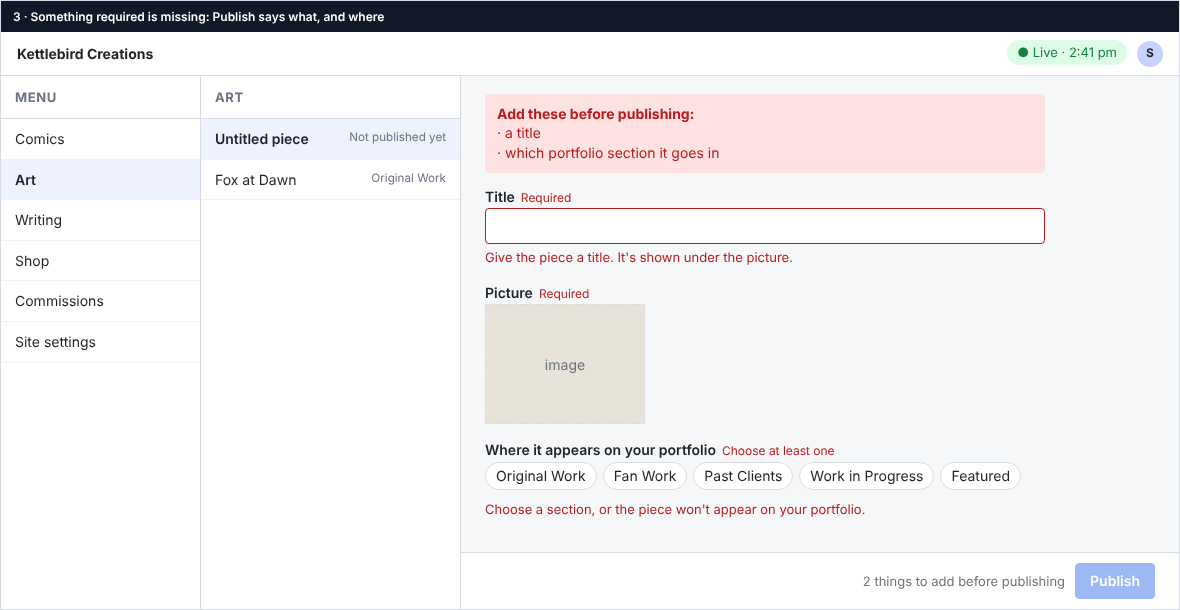
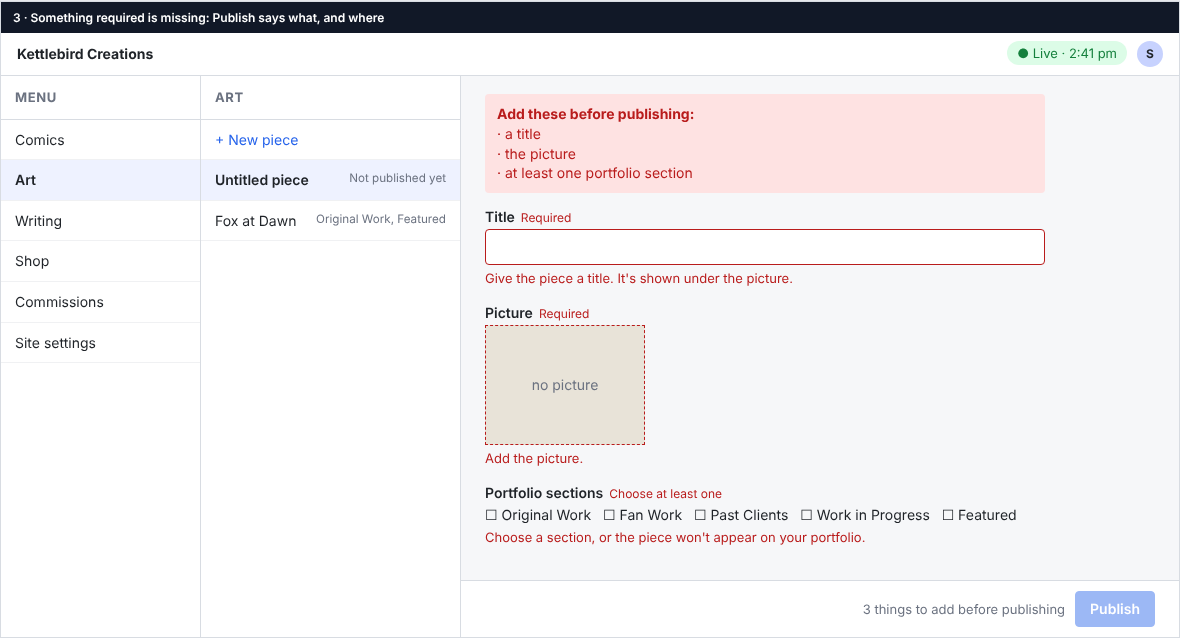
Revise the organised-editor design after its persona walkthrough
Full form mock-ups for every section (eight in all); hides fields the
site doesn't use yet instead of describing them; one meaning for
Featured; Shop section required; prices written with their currency;
'series' as in the approved designs.

Claude-Session: https://claude.ai/code/session_01HWRLNSVAoX5Ni8d8XcwJh1

diff --git a/docs/design/mockups/organised-editor/mockups.html b/docs/design/mockups/organised-editor/mockups.html
@@ -44,98 +44,51 @@
 <body>
 
 <div class="frame" id="m1">
-  <h6>1 · The menu, and Comics open: a series and its chapters in number order</h6>
+  <h6>1 · The menu, and Comics: a series, its details and its chapters in number order</h6>
   <div class="top"><strong>Kettlebird Creations</strong><span><span class="status">● Live · 2:41 pm</span><span class="avatar">S</span></span></div>
-  <div class="cols">
-    <div class="col"><h3>Menu</h3>
-      <div class="item sel">Comics</div><div class="item">Art</div><div class="item">Writing</div><div class="item">Shop</div><div class="item">Commissions</div><div class="item">Site settings</div>
-    </div>
-    <div class="col"><h3>Comics</h3>
-      <div class="item sel">Kettle Tales <small>Ongoing</small></div><div class="item">Moonlit Errands <small>Complete</small></div>
-      <div class="item" style="color:var(--accent)">+ New comic</div>
-    </div>
-    <div class="doc">
-      <div class="field"><label>Title</label><div class="input">Kettle Tales</div></div>
-      <div class="field"><label>Chapters</label>
-        <div class="item" style="background:#fff;border:1px solid var(--line)">Chapter 1: The Kettle · 3 pages · On the site</div>
-        <div class="item" style="background:#fff;border:1px solid var(--line);border-top:0">Chapter 2: The Long Road · 2 pages · On the site</div>
-        <div class="item" style="background:#fff;border:1px solid var(--line);border-top:0">Chapter 3: Homeward · 0 pages · hidden from readers · Not published yet</div>
-        <p style="margin:8px 0 0"><span class="btn">+ Add chapter</span></p>
-      </div>
-      <p class="help">Choosing a chapter opens it, with its pages (design-comic-publish-pages).</p>
-    </div>
-  </div>
+  <div class="cols"><div class="col"><h3>Menu</h3><div class="item sel">Comics</div><div class="item">Art</div><div class="item">Writing</div><div class="item">Shop</div><div class="item">Commissions</div><div class="item">Site settings</div></div><div class="col"><h3>Comics</h3><div class="item" style="color:var(--accent)">+ New series</div><div class="item sel">Kettle Tales <small>Ongoing</small></div><div class="item">Moonlit Errands <small>Complete</small></div></div><div><div class="doc"><div class="field"><label>Title<span class="req">Required</span></label><p class="help">The series&#39; name, as readers see it.</p><div class="input">Kettle Tales</div></div><div class="field"><label>Web address<span class="req">Required</span></label><p class="help">Fills itself in from the title. It&#39;s the last part of the series&#39; address on the site: kettlebird.com/comics/kettle-tales. Leave it as it is once people may have shared links.</p><div class="input">kettle-tales</div></div><div class="field"><label>Cover</label><p class="help">Shown on the Comics page and the series&#39; own page.</p><div class="input">[picture]</div></div><div class="field"><label>Description</label><p class="help">A sentence or two about the series, shown on its page.</p><div class="input">A fox and a kettle set out across the hills.</div></div><div class="field"><label>Status</label><p class="help">Ongoing, Complete, or On Hiatus. Shown as a tag, and in the message at the end of the newest page.</p><div class="input">Ongoing</div></div><div class="field"><label>Kind</label><p class="help">Original or Fancomic, shown as a tag.</p><div class="input">Original</div></div><div class="field"><label>Chapters</label><p class="help">In number order. Choose one to open it and its pages.</p><div class="item" style="background:#fff;border:1px solid var(--line)">Chapter 1: The Kettle · 3 pages · On the site</div><div class="item" style="background:#fff;border:1px solid var(--line);border-top:0">Chapter 2: The Long Road · 2 pages · On the site</div><p style="margin:8px 0 0"><span class="btn">+ Add chapter</span></p></div></div><div class="bar"><span class="btn primary">Publish</span></div></div></div>
 </div>
 
 <div class="frame" id="m2">
   <h6>2 · Art: a piece, with plain labels and help text</h6>
   <div class="top"><strong>Kettlebird Creations</strong><span><span class="status">● Live · 2:41 pm</span><span class="avatar">S</span></span></div>
-  <div class="cols">
-    <div class="col"><h3>Menu</h3>
-      <div class="item">Comics</div><div class="item sel">Art</div><div class="item">Writing</div><div class="item">Shop</div><div class="item">Commissions</div><div class="item">Site settings</div>
-    </div>
-    <div class="col"><h3>Art</h3>
-      <div class="item sel">Fox at Dawn <small>Original Work</small></div><div class="item">Kettle Study <small>Fan Work</small></div>
-      <div class="item" style="color:var(--accent)">+ New piece</div>
-    </div>
-    <div class="doc">
-      <div class="field"><label>Title<span class="req">Required</span></label><p class="help">Shown under the picture on your portfolio.</p><div class="input">Fox at Dawn</div></div>
-      <div class="field"><label>Picture<span class="req">Required</span></label><p class="help">Upload the original file; the site makes smaller copies. Drag the circle to the part that matters most, so square thumbnails keep it in view.</p><div class="thumb">image</div></div>
-      <div class="field"><label>Alt text</label><p class="help">What the picture shows, for people using screen readers. One or two sentences.</p><div class="input">A fox sits on a hill as the sun comes up.</div></div>
-      <div class="field"><label>Where it appears on your portfolio<span class="req">Choose at least one</span></label><p class="help">The portfolio's sections. A piece can be in more than one.</p>
-        <div class="chips"><span class="on">Original Work</span><span>Fan Work</span><span>Past Clients</span><span>Work in Progress</span><span>Featured</span></div></div>
-      <div class="field"><label>On the home page</label><p class="help">Also show it in the home page's gallery.</p><div class="input">☐</div></div>
-    </div>
-  </div>
+  <div class="cols"><div class="col"><h3>Menu</h3><div class="item">Comics</div><div class="item sel">Art</div><div class="item">Writing</div><div class="item">Shop</div><div class="item">Commissions</div><div class="item">Site settings</div></div><div class="col"><h3>Art</h3><div class="item" style="color:var(--accent)">+ New piece</div><div class="item sel">Fox at Dawn <small>Original Work, Featured</small></div><div class="item">Kettle Study <small>Fan Work</small></div></div><div><div class="doc"><div class="field"><label>Title<span class="req">Required</span></label><p class="help">Shown under the picture on your portfolio.</p><div class="input">Fox at Dawn</div></div><div class="field"><label>Picture<span class="req">Required</span></label><p class="help">Upload the original file; the site makes smaller copies. To keep the important part in view in square thumbnails, choose the picture&#39;s Edit button and mark it.</p><div class="input">[picture]</div></div><div class="field"><label>Alt text</label><p class="help">What the picture shows, for people using screen readers. If it&#39;s empty, screen readers hear only the title.</p><div class="input">A fox sits on a hill as the sun comes up.</div></div><div class="field"><label>Portfolio sections<span class="req">Choose at least one</span></label><p class="help">The sections of your portfolio it appears in. A piece can be in more than one.</p><div class="chips">☑ Original Work &nbsp; ☐ Fan Work &nbsp; ☐ Past Clients &nbsp; ☐ Work in Progress &nbsp; ☑ Featured</div></div><div class="field"><label>Description</label><p class="help">Shown when someone opens the picture on your portfolio.</p><div class="input"></div></div><div class="field"><label>Tags</label><p class="help">Words shown under the picture when it&#39;s opened, like a character&#39;s name.</p><div class="input"></div></div><div class="field"><label>Date</label><p class="help">When you made it. The portfolio shows newest first; pieces without a date come last.</p><div class="input"></div></div></div><div class="bar"><span class="btn primary">Publish</span></div></div></div>
 </div>
 
 <div class="frame" id="m3">
   <h6>3 · Something required is missing: Publish says what, and where</h6>
   <div class="top"><strong>Kettlebird Creations</strong><span><span class="status">● Live · 2:41 pm</span><span class="avatar">S</span></span></div>
-  <div class="cols">
-    <div class="col"><h3>Menu</h3>
-      <div class="item">Comics</div><div class="item sel">Art</div><div class="item">Writing</div><div class="item">Shop</div><div class="item">Commissions</div><div class="item">Site settings</div>
-    </div>
-    <div class="col"><h3>Art</h3>
-      <div class="item sel">Untitled piece <small>Not published yet</small></div><div class="item">Fox at Dawn <small>Original Work</small></div>
-    </div>
-    <div>
-      <div class="doc">
-        <div class="errbox"><strong>Add these before publishing:</strong><br>· a title<br>· which portfolio section it goes in</div>
-        <div class="field"><label>Title<span class="req">Required</span></label><div class="input bad"></div><div class="msg">Give the piece a title. It's shown under the picture.</div></div>
-        <div class="field"><label>Picture<span class="req">Required</span></label><div class="thumb">image</div></div>
-        <div class="field"><label>Where it appears on your portfolio<span class="req">Choose at least one</span></label><div class="chips"><span>Original Work</span><span>Fan Work</span><span>Past Clients</span><span>Work in Progress</span><span>Featured</span></div><div class="msg">Choose a section, or the piece won't appear on your portfolio.</div></div>
-      </div>
-      <div class="bar"><span style="color:var(--muted);font-size:13px">2 things to add before publishing</span><span class="btn primary off">Publish</span></div>
-    </div>
-  </div>
+  <div class="cols"><div class="col"><h3>Menu</h3><div class="item">Comics</div><div class="item sel">Art</div><div class="item">Writing</div><div class="item">Shop</div><div class="item">Commissions</div><div class="item">Site settings</div></div><div class="col"><h3>Art</h3><div class="item" style="color:var(--accent)">+ New piece</div><div class="item sel">Untitled piece <small>Not published yet</small></div><div class="item">Fox at Dawn <small>Original Work, Featured</small></div></div><div><div class="doc"><div class="errbox"><strong>Add these before publishing:</strong><br>· a title<br>· the picture<br>· at least one portfolio section</div><div class="field"><label>Title<span class="req">Required</span></label><div class="input bad"></div><div class="msg">Give the piece a title. It&#39;s shown under the picture.</div></div><div class="field"><label>Picture<span class="req">Required</span></label><div class="thumb" style="border-color:var(--err)">no picture</div><div class="msg">Add the picture.</div></div><div class="field"><label>Portfolio sections<span class="req">Choose at least one</span></label><div class="chips">☐ Original Work &nbsp; ☐ Fan Work &nbsp; ☐ Past Clients &nbsp; ☐ Work in Progress &nbsp; ☐ Featured</div><div class="msg">Choose a section, or the piece won&#39;t appear on your portfolio.</div></div></div><div class="bar"><span style="color:var(--muted);font-size:13px">3 things to add before publishing</span><span class="btn primary off">Publish</span></div></div></div>
 </div>
 
 <div class="frame" id="m4">
-  <h6>4 · Writing, Shop and Commissions: what each holds</h6>
+  <h6>4 · Writing: a story</h6>
   <div class="top"><strong>Kettlebird Creations</strong><span><span class="status">● Live · 2:41 pm</span><span class="avatar">S</span></span></div>
-  <div class="cols" style="grid-template-columns:200px 1fr 1fr 1fr">
-    <div class="col"><h3>Menu</h3>
-      <div class="item">Comics</div><div class="item">Art</div><div class="item sel">Writing</div><div class="item">Shop</div><div class="item">Commissions</div><div class="item">Site settings</div>
-    </div>
-    <div class="col"><h3>Writing</h3><div class="item">The Kettle Who Wandered <small>Short story</small></div><div class="item" style="color:var(--accent)">+ New story</div>
-      <div class="doc"><p class="help">Fields: Title, Cover, Short description, Read on AO3 (link), Genres, Date posted, Story text (shown on the site once reading on the site is added).</p></div></div>
-    <div class="col"><h3>Shop</h3><div class="item">Fox Sticker <small>Sticker</small></div><div class="item" style="color:var(--accent)">+ New product</div>
-      <div class="doc"><p class="help">Fields: Name, Pictures, Price, Description, Kind, How many are left, Ko-fi link (until the site has its own checkout), Tags.</p></div></div>
-    <div class="col"><h3>Commissions</h3><div class="item">Full colour illustration <small>$80–150</small></div><div class="item" style="color:var(--accent)">+ New commission type</div>
-      <div class="doc"><p class="help">Fields: Name, Price range, What's included, Examples, How long it takes, Order on the page. Whether commissions are open is in Site settings.</p></div></div>
-  </div>
+  <div class="cols"><div class="col"><h3>Menu</h3><div class="item">Comics</div><div class="item">Art</div><div class="item sel">Writing</div><div class="item">Shop</div><div class="item">Commissions</div><div class="item">Site settings</div></div><div class="col"><h3>Writing</h3><div class="item" style="color:var(--accent)">+ New story</div><div class="item sel">The Kettle Who Wandered <small>Posted 12 Oct 2026</small></div></div><div><div class="doc"><div class="field"><label>Title<span class="req">Required</span></label><p class="help">The story&#39;s title.</p><div class="input">The Kettle Who Wandered</div></div><div class="field"><label>Link to read it</label><p class="help">Where the Writing page&#39;s Read it button goes, such as the story on AO3.</p><div class="input">https://archiveofourown.org/works/…</div></div><div class="field"><label>Short description</label><p class="help">A sentence or two, shown on the Writing page.</p><div class="input"></div></div><div class="field"><label>Cover</label><p class="help">Shown beside the story on the Writing page.</p><div class="input"></div></div><div class="field"><label>Genres</label><p class="help">Shown as tags on the Writing page.</p><div class="input"></div></div><div class="field"><label>Date posted</label><p class="help">The Writing page shows newest first.</p><div class="input">12 Oct 2026</div></div></div><div class="bar"><span class="btn primary">Publish</span></div></div></div>
 </div>
 
 <div class="frame" id="m5">
-  <h6>5 · Site settings, before the site-settings update arrives</h6>
+  <h6>5 · Shop: a product</h6>
   <div class="top"><strong>Kettlebird Creations</strong><span><span class="status">● Live · 2:41 pm</span><span class="avatar">S</span></span></div>
-  <div class="cols two">
-    <div class="col"><h3>Menu</h3>
-      <div class="item">Comics</div><div class="item">Art</div><div class="item">Writing</div><div class="item">Shop</div><div class="item">Commissions</div><div class="item sel">Site settings</div>
-    </div>
-    <div class="empty"><strong>Site settings is coming in the next update.</strong><br>It's where you'll open or close commissions, and change your about page, the home page's artist text, and your social links. Until then, ask the person who looks after the site.</div>
-  </div>
+  <div class="cols"><div class="col"><h3>Menu</h3><div class="item">Comics</div><div class="item">Art</div><div class="item">Writing</div><div class="item sel">Shop</div><div class="item">Commissions</div><div class="item">Site settings</div></div><div class="col"><h3>Shop</h3><div class="item" style="color:var(--accent)">+ New product</div><div class="item sel">Fox Sticker <small>Stickers</small></div><div class="item">Kettle Print <small>Prints</small></div></div><div><div class="doc"><div class="field"><label>Name<span class="req">Required</span></label><p class="help">The product&#39;s name in the shop.</p><div class="input">Fox Sticker</div></div><div class="field"><label>Shop section<span class="req">Required</span></label><p class="help">Which section of the shop it&#39;s listed under: Prints, Stickers, or Digital. Within a section, products are listed by name.</p><div class="input">Stickers</div></div><div class="field"><label>Price</label><p class="help">Shown exactly as you write it, so include the currency: $4, or $4 each.</p><div class="input">$4</div></div><div class="field"><label>Pictures</label><p class="help">The first is the one shown in the shop.</p><div class="input">[pictures]</div></div><div class="field"><label>Description</label><p class="help">Shown in the shop under the name.</p><div class="input"></div></div><div class="field"><label>Ko-fi link</label><p class="help">Where the shop&#39;s Buy button goes, until the site has its own checkout. Without it, there&#39;s no Buy button.</p><div class="input">https://ko-fi.com/…</div></div></div><div class="bar"><span class="btn primary">Publish</span></div></div></div>
+</div>
+
+<div class="frame" id="m6">
+  <h6>6 · Commissions: a commission type</h6>
+  <div class="top"><strong>Kettlebird Creations</strong><span><span class="status">● Live · 2:41 pm</span><span class="avatar">S</span></span></div>
+  <div class="cols"><div class="col"><h3>Menu</h3><div class="item">Comics</div><div class="item">Art</div><div class="item">Writing</div><div class="item">Shop</div><div class="item sel">Commissions</div><div class="item">Site settings</div></div><div class="col"><h3>Commissions</h3><div class="item" style="color:var(--accent)">+ New commission type</div><div class="item sel">Full colour illustration <small>$80–150</small></div><div class="item">Sketch <small>$30–50</small></div></div><div><div class="doc"><div class="field"><label>Name<span class="req">Required</span></label><p class="help">Like &quot;Full colour illustration&quot;, shown as the heading.</p><div class="input">Full colour illustration</div></div><div class="field"><label>Price range</label><p class="help">Shown exactly as you write it, like $80–150.</p><div class="input">$80–150</div></div><div class="field"><label>What&#39;s included</label><p class="help">Shown under the name on the Commissions page.</p><div class="input"></div></div><div class="field"><label>Examples</label><p class="help">Pictures of past commissions of this kind. The first three are shown.</p><div class="input">[pictures]</div></div><div class="field"><label>How long it takes</label><p class="help">Shown as &quot;Est. delivery&quot;, like 2–3 weeks.</p><div class="input">2–3 weeks</div></div><div class="field"><label>Order on the page</label><p class="help">Lower numbers come first on the Commissions page, and in this list.</p><div class="input">1</div></div><p class="help">Whether commissions are open is in Site settings.</p></div><div class="bar"><span class="btn primary">Publish</span></div></div></div>
+</div>
+
+<div class="frame" id="m7">
+  <h6>7 · An empty section</h6>
+  <div class="top"><strong>Kettlebird Creations</strong><span><span class="status">● Live · 2:41 pm</span><span class="avatar">S</span></span></div>
+  <div class="cols"><div class="col"><h3>Menu</h3><div class="item">Comics</div><div class="item">Art</div><div class="item sel">Writing</div><div class="item">Shop</div><div class="item">Commissions</div><div class="item">Site settings</div></div><div class="col"><h3>Writing</h3><div class="item" style="color:var(--accent)">+ New story</div></div><div class="empty">No stories yet. Choose <strong>New story</strong> to add one.</div></div>
+</div>
+
+<div class="frame" id="m8">
+  <h6>8 · Site settings, before the site-settings update arrives</h6>
+  <div class="top"><strong>Kettlebird Creations</strong><span><span class="status">● Live · 2:41 pm</span><span class="avatar">S</span></span></div>
+  <div class="cols two"><div class="col"><h3>Menu</h3><div class="item">Comics</div><div class="item">Art</div><div class="item">Writing</div><div class="item">Shop</div><div class="item">Commissions</div><div class="item sel">Site settings</div></div><div class="empty"><strong>Site settings is coming in the next update.</strong><br>It&#39;s where you&#39;ll open or close commissions, and change your about page, the home page&#39;s artist text, and your social links. Until then, ask the person who looks after the site.</div></div>
 </div>
 
 </body>

diff --git a/docs/design/organised-editor.md b/docs/design/organised-editor.md
@@ -22,125 +22,160 @@ design-comic-publish-pages; this design places them in the menu. -->
 ## Flow
 
 1. Star opens the editor. The menu on the left lists **Comics**, **Art**, **Writing**, **Shop**, **Commissions**, and **Site settings**, in that order, and nothing else (mock-up 1).
-2. Star chooses a section. Its list shows the items in it, newest first, each with a short detail (a comic's status, a piece's portfolio section, a product's kind), and **New …** at the top: **New comic**, **New piece**, **New story**, **New product**, **New commission type**.
-3. Star chooses an item, or a **New …** button. The item opens beside the list, every field with its label and help text (mock-up 2).
-4. In **Comics**, a comic shows its **Chapters** in number order. Choosing one opens the chapter and its pages (mock-up 1; the chapter itself is design-comic-publish-pages).
-5. If something required is missing, **Publish** can't be pressed, and the item lists what to add, with each field's own message beside it (mock-up 3).
+2. Star chooses a section. Its list shows **New …** at the top (**New series**, **New piece**, **New story**, **New product**, **New commission type**), then the items, each with a short detail:
+   - a series' status;
+   - a piece's portfolio sections, all of them, separated by commas;
+   - a story's date posted;
+   - a product's shop section;
+   - a commission type's price range.
+3. Star chooses an item, or a **New …** button. The item opens beside the list, with every field's label and help text, and **Publish** at the bottom, where Sanity puts it (mock-ups 1, 2, 4, 5 and 6).
+4. In **Comics**, a series shows its **Chapters** in number order. Choosing one opens the chapter and its pages (mock-up 1; the chapter itself is in design-comic-publish-pages). **Add chapter** starts a chapter that already belongs to the series.
+5. If something required is missing, **Publish** can't be pressed. The item lists what to add, and each field shows its own message (mock-up 3).
 
 ## Mock-ups
 
-Low-fidelity. The editor is Sanity Studio; this design sets its menu, the labels, help text and messages, and which fields appear. Source: `mockups/organised-editor/mockups.html`.
+Low-fidelity. The editor is Sanity Studio; this design sets its menu, the labels, the help text and messages, and which fields appear. Each form shows every field Star sees, in order. Source: `mockups/organised-editor/mockups.html`.
 
 | # | Screen | File |
 |---|---|---|
-| 1 | The menu, and **Comics**: a comic and its chapters | `mockups/organised-editor/1-comics.png` |
-| 2 | **Art**: a piece, with labels and help text | `mockups/organised-editor/2-art-piece.png` |
+| 1 | The menu, and **Comics**: a series, its details and its chapters | `mockups/organised-editor/1-comics.png` |
+| 2 | **Art**: a piece | `mockups/organised-editor/2-art-piece.png` |
 | 3 | Required fields missing: what to add before publishing | `mockups/organised-editor/3-missing-fields.png` |
-| 4 | **Writing**, **Shop** and **Commissions**: their lists and fields | `mockups/organised-editor/4-writing-shop-commissions.png` |
-| 5 | **Site settings** before the site-settings update | `mockups/organised-editor/5-site-settings.png` |
+| 4 | **Writing**: a story | `mockups/organised-editor/4-writing.png` |
+| 5 | **Shop**: a product | `mockups/organised-editor/5-shop.png` |
+| 6 | **Commissions**: a commission type | `mockups/organised-editor/6-commissions.png` |
+| 7 | An empty section | `mockups/organised-editor/7-empty-section.png` |
+| 8 | **Site settings** before the site-settings update | `mockups/organised-editor/8-site-settings.png` |
 
 ## Sections and fields
 
-Each table is the whole section: label as Star sees it, help text, and whether it's required. Fields the site doesn't use are hidden (listed under each table), not deleted, so nothing already entered is lost.
+Each table is the whole form, in order: the label as Star sees it, its help text, and whether it's required. A field the site doesn't use is hidden, not deleted, so nothing already entered is lost. Each hidden field is listed under its table, and comes back when the site starts using it.
 
-**Comics** (a comic; its chapters and pages are as in design-comic-publish-pages)
+**Comics** (a series; its chapters and pages are as in design-comic-publish-pages) (mock-up 1)
 
 | Field | Help text | Required |
 |---|---|---|
-| Title | The comic's name, as readers see it. | Yes |
-| Web address | Fills itself in from the title; it's the end of the comic's link, like /comics/kettle-tales. Changing it later breaks links people have shared. | Yes |
-| Cover | Shown on the Comics page and the comic's own page. | |
-| Description | A sentence or two about the comic, shown on its page. | |
-| Status | Ongoing, Complete, or On Hiatus, shown as a tag and at the end of the newest page. | |
-| Type | Original or Fancomic, shown as a tag. | |
-| Chapters | Each chapter, in number order. Add chapter starts the next one. | |
+| Title | The series' name, as readers see it. | Yes |
+| Web address | Fills itself in from the title. It's the last part of the series' address on the site: kettlebird.com/comics/kettle-tales. Leave it as it is once people may have shared links. | Yes |
+| Cover | Shown on the Comics page and the series' own page. | |
+| Description | A sentence or two about the series, shown on its page. | |
+| Status | Ongoing, Complete, or On Hiatus. Shown as a tag, and in the message at the end of the newest page. | |
+| Kind | Original or Fancomic, shown as a tag. | |
+| Chapters | In number order. Choose one to open it and its pages. | |
 
-**Art** (a piece in the portfolio)
+**Art** (a piece in the portfolio) (mock-up 2)
 
 | Field | Help text | Required |
 |---|---|---|
 | Title | Shown under the picture on your portfolio. | Yes |
-| Picture | Upload the original file; the site makes smaller copies. Drag the circle to the part that matters most, so square thumbnails keep it in view. | Yes |
-| Alt text | What the picture shows, for people using screen readers. One or two sentences. | |
+| Picture | Upload the original file; the site makes smaller copies. To keep the important part in view in square thumbnails, choose the picture's Edit button and mark it. | Yes |
+| Alt text | What the picture shows, for people using screen readers. If it's empty, screen readers hear only the title. | No, but a missing one is marked, as for comic pages |
+| Portfolio sections | The sections of your portfolio it appears in: Original Work, Fan Work, Past Clients, Work in Progress, Featured. A piece can be in more than one. | At least one |
 | Description | Shown when someone opens the picture on your portfolio. | |
-| Where it appears on your portfolio | The portfolio's sections: Original Work, Fan Work, Past Clients, Work in Progress, Featured. A piece can be in more than one. | At least one |
-| On the home page | Also show it in the home page's gallery. | |
 | Tags | Words shown under the picture when it's opened, like a character's name. | |
-| Date | When you made it; the portfolio shows newest first. | |
+| Date | When you made it. The portfolio shows newest first; pieces without a date come last. | |
 
-Hidden: the piece's web address (the portfolio has no page per piece).
+Hidden: the piece's web address (the portfolio has no page per piece), and "Featured on homepage" (the home page has no gallery). The portfolio's **Featured** section is unaffected.
 
-**Writing** (a story)
+**Writing** (a story) (mock-up 4)
 
 | Field | Help text | Required |
 |---|---|---|
 | Title | The story's title. | Yes |
-| Cover | Shown beside the story on the Writing page. | |
+| Link to read it | Where the Writing page's Read it button goes, such as the story on AO3. | |
 | Short description | A sentence or two, shown on the Writing page. | |
-| Read on AO3 | The story's AO3 link; the Writing page links to it. | |
+| Cover | Shown beside the story on the Writing page. | |
 | Genres | Shown as tags on the Writing page. | |
 | Date posted | The Writing page shows newest first. | |
-| Story text | The full story, for reading on the site. The site doesn't show it yet; until it does, readers follow the AO3 link. | |
 
-Hidden: the story's web address (until reading on the site is added, with the writing epic).
+Hidden: the story's web address and its full text (the site doesn't show stories itself yet; both come back with the writing epic).
 
-**Shop** (a product)
+**Shop** (a product) (mock-up 5)
 
 | Field | Help text | Required |
 |---|---|---|
 | Name | The product's name in the shop. | Yes |
+| Shop section | Which section of the shop it's listed under: Prints, Stickers, or Digital. Within a section, products are listed by name. | Yes |
+| Price | Shown exactly as you write it, so include the currency: $4, or $4 each. | |
 | Pictures | The first is the one shown in the shop. | |
-| Price | In dollars, like 12. | |
 | Description | Shown in the shop under the name. | |
-| Kind | Print, Sticker, or Digital. | |
-| How many are left | Leave empty if it doesn't run out. | |
-| Ko-fi link | Where the Buy button goes, until the site has its own checkout. | |
-| Tags | Words to help people find it. | |
+| Ko-fi link | Where the shop's Buy button goes, until the site has its own checkout. Without it, there's no Buy button. | |
 
-Hidden: the product's web address. The "Commission" product kind is removed: commissions have their own section.
+Hidden: the product's web address, tags, and "how many are left" (the shop doesn't use them yet; they come back with the shop epic). The "Commission" shop section is removed: commissions have their own menu section.
 
-**Commissions** (a commission type)
+**Commissions** (a commission type) (mock-up 6)
 
 | Field | Help text | Required |
 |---|---|---|
-| Name | Like "Full colour illustration". | Yes |
-| Price range | Like "$80–150", shown as written. | |
+| Name | Like "Full colour illustration", shown as the heading. | Yes |
+| Price range | Shown exactly as you write it, like $80–150. | |
 | What's included | Shown under the name on the Commissions page. | |
-| Examples | Pictures of past commissions of this kind. | |
-| How long it takes | Like "2–3 weeks". | |
-| Order on the page | Lower numbers come first. | |
+| Examples | Pictures of past commissions of this kind. The first three are shown. | |
+| How long it takes | Shown as "Est. delivery", like 2–3 weeks. | |
+| Order on the page | Lower numbers come first on the Commissions page, and in this list. | |
 
-Whether commissions are open is in **Site settings** (story-content-editing-site-settings).
+Whether commissions are open is in **Site settings** (story-content-editing-site-settings); until that's built, the Commissions page always says they're open.
 
-**Site settings** (mock-up 5): until story-content-editing-site-settings is built, it says "Site settings is coming in the next update. It's where you'll open or close commissions, and change your about page, the home page's artist text, and your social links. Until then, ask the person who looks after the site."
+**Site settings** (mock-up 8): until story-content-editing-site-settings is built, it says "Site settings is coming in the next update. It's where you'll open or close commissions, and change your about page, the home page's artist text, and your social links. Until then, ask the person who looks after the site." This is a note in the editor, for Star; visitors never see it.
 
 ## Layout
 
-- The menu's sections are always in the order above. Each section's list shows newest first; **Commissions** shows its types in **Order on the page** order, as the site does.
+- The menu's sections are always in the order above.
+- **Comics**, **Art** and **Writing** list newest first. **Shop** lists by name within each shop section, as the shop does. **Commissions** lists in **Order on the page** order, as the site does.
+- **Publish** is at the bottom of the open item (Sanity's place for it), with the status from design-know-when-live at the top right.
 - Required fields say "Required" (or "Choose at least one") beside the label, before Star has missed them.
-- Help text sits under each label, always visible, never behind an icon.
-- No field label uses "slug", "reference", "document", "schema", "array", or "type" as a technical word. The words Star sees for things are: comic, chapter, page, piece, story, product, commission type.
+- Help text sits under each label, always visible.
+- No label or help text uses a developer's word: not "slug", "reference", "document", "schema", "array", "category", or "boolean". The words for things are series, chapter, page, piece, story, product, and commission type, and "Kind" for a series' Original or Fancomic.
+- Sanity's own menus that create or find items ("Create new", search) offer only the same six kinds of item, with the same names.
 
 ## States and errors
 
-- **Missing required fields** (mock-up 3): **Publish** can't be pressed. The item lists what to add ("Add these before publishing: a title; which portfolio section it goes in"), and each field shows its own message, saying what it's for: "Give the piece a title. It's shown under the picture." Saving a draft is always allowed.
-- **Empty section:** "No pieces yet. Choose New piece to add one." (worded for each section).
-- **Developer tools:** the query tool and any other developer tool appear only to project administrators (the lead), never to Star's Editor role.
+- **Missing required fields** (mock-up 3): **Publish** can't be pressed. The item lists everything to add ("Add these before publishing: a title; the picture; at least one portfolio section"), and each field shows its own message, saying what it's for. Saving a draft is always allowed.
+- **Missing alt text** on a piece: marked on the field ("Add alt text so people using screen readers can follow it"), but publishing is allowed, as for comic pages.
+- **Empty section** (mock-up 7): "No stories yet. Choose New story to add one.", worded for each section.
+- **Developer tools:** the query tool appears only to project administrators (the lead), never to Star's Editor role (design-sign-in).
 
 ## Accessibility
 
 - Labels and help text are real text attached to their fields, so screen readers read the help with the field.
 - Required fields are marked in words, not colour alone, and the list of what's missing is announced when **Publish** is tried.
-- This design adds no controls of its own beyond Sanity's; its menu and lists are Sanity's, which are keyboard operable.
+- The menu and lists are Sanity's, which are keyboard operable; this design adds no controls of its own.
 
 ## Trying it with Star
 
-The story's last criterion: once built, Star tries the editor on a few real pieces with the lead, at least one comic chapter, one piece of art, and one commission type. What they find is written down as changes to this story or new stories before the epic continues.
+The story's last criterion: once built, Star tries the editor on a few real pieces with the lead. That's at least one comic chapter, one piece of art, and one commission type. What they find is written down as changes to this story, or as new stories, before the epic continues.
 
 ## For the spec to check
 
-- The Studio's structure tool can set this menu, show each comic's chapters in number order, and list newest first.
-- The query tool can be limited to administrators.
-- Hiding unused fields keeps their saved values.
-- The list of missing required fields can be shown at the top of an item.
-- Removing the "Commission" product kind: whether any product uses it now (the dataset is empty, so none should).
+- The structure tool can set this menu, list each section in its order, and show a series' chapters in number order.
+- **Add chapter** creates a chapter for that series (design-comic-publish-pages already uses an initial value template for this).
+- "Create new" and search can be limited to the six kinds of item, with these names.
+- The query tool can be limited to administrators by role.
+- Hidden fields keep their saved values.
+- A summary of what's missing can be shown at the top of an item, and "N things to add" beside **Publish**.
+- The stored values of the portfolio sections stay as they are ("original", "fanart", "commission", "featured", "wip"); only their labels change, to the portfolio's own: Original Work, Fan Work, Past Clients, Featured, Work in Progress.
+- Removing the "Commission" shop section: the dataset is empty, so no product uses it; `shop.astro` stops listing it.
+
+## Persona walkthrough
+
+A walkthrough for persona-artist (2026-11-01) opened each mock-up and checked the help text against what the site actually shows. Everything it found is addressed above.
+
+It flagged as blocking that Writing, Shop and Commissions had no form mock-ups. Mock-ups 4 to 7 now show every form and the empty state.
+
+It found help text that promised things the site doesn't do. Those fields are now hidden until the site uses them:
+- "On the home page" (there's no home gallery);
+- the shop's tags and stock;
+- the story text.
+
+It also found:
+- "Featured" with two meanings: there is now one, the portfolio section.
+- A price that showed without its currency: the help text now says to write it.
+- "Kind" not being required, though it picks the shop section: now **Shop section**, required.
+- Missing alt text going unwarned: now warned.
+- "comic" and "series" both used: now "series", as the approved designs and the guide use.
+- The word "Type" breaking its own rule: now "Kind".
+- Technical help for the web address: it now shows the full address.
+- The examples limit and the "Est. delivery" wording, which the help text now states.
+- Text and mock-ups disagreeing: the picture is now in the missing list, list details are defined for every section, and **Publish** has one place.
+
+It also listed the Sanity behaviour above for the spec to check.
